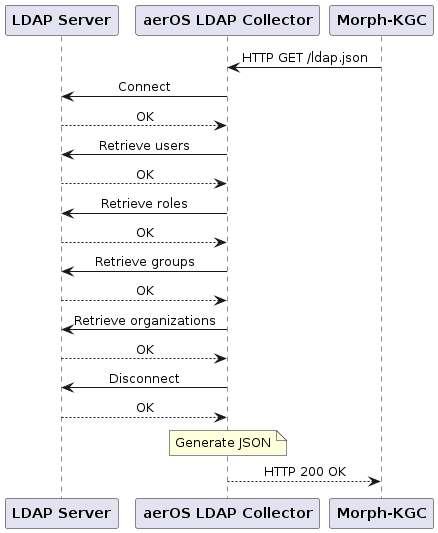
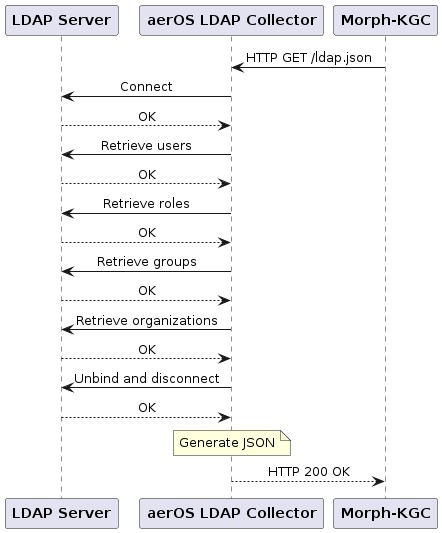
Upload Version 1.1.3

diff --git a/aeros_ldap_collector/main.py b/aeros_ldap_collector/main.py
@@ -1,5 +1,5 @@
 __name__ = "aerOS LDAP Collector"
-__version__ = "1.1.2"
+__version__ = "1.1.3"
 __author__ = "David Martínez García"
 __credits__ = ["GIROS DIT-UPM", "Luis Bellido Triana", "Daniel González Sánchez", "David Martínez García"]
 
@@ -7,24 +7,25 @@ __credits__ = ["GIROS DIT-UPM", "Luis Bellido Triana", "Daniel González Sánche
 
 import configparser
 from contextlib import asynccontextmanager
-from fastapi import FastAPI
+from fastapi import FastAPI, Request, status
 import json
-from kafka import KafkaProducer
 from ldap3 import Server, Connection, ALL, ALL_ATTRIBUTES
 import logging
 import time
+import os
 
 ## -- END IMPORT STATEMENTS -- ##
 
 ## -- BEGIN CONSTANTS DECLARATION -- ##
 
-# The configuration file is always expected to be located at this path:
-CONFIG_FILE_PATH = "/aeros-ldap-collector/files/config.ini"
+# The configuration file path is defined as an environment variable:
+# Default value is: /aeros-ldap-collector/conf/config.ini
+CONFIG_FILE_PATH = os.getenv("CONFIG_FILE_PATH", "/aeros-ldap-collector/conf/config.ini")
 
 ### CONFIGURATION SECTIONS AND DIRECTIVES ###
 
 REQUIRED_CONFIG_SECTIONS = [
-    "ldap.general", "ldap.connection", "output"
+    "ldap.general", "ldap.connection"
 ]
 
 LDAP_GENERAL_REQUIRED_CONF_DIRECTIVES = [
@@ -33,10 +34,6 @@ LDAP_GENERAL_REQUIRED_CONF_DIRECTIVES = [
 
 LDAP_CONNECTION_REQUIRED_CONF_DIRECTIVES = [
     "server_endpoint", "use_ssl", "user", "password", "max_retries", "timeout"
-]
-
-OUTPUT_KAFKA_REQUIRED_DIRECTIVES = [
-    "kafka_server", "kafka_topic"
 ]
 
 ### --- ###
@@ -98,16 +95,6 @@ def check_config(config: configparser.ConfigParser):
                             logger.error("Provided configuration directives: " + str(directives))
                             logger.error("Required configuration directives: " + str(LDAP_CONNECTION_REQUIRED_CONF_DIRECTIVES))
                             raise RuntimeError("Missing or invalid configuration directives for ldap.connection section")
-                    if config_section == "output":
-                        kafka_directives = []
-                        for directive in directives:
-                            if "kafka_" in directive:
-                                kafka_directives.append(directive)
-                        if (len(kafka_directives) != 0) and (kafka_directives != OUTPUT_KAFKA_REQUIRED_DIRECTIVES):
-                            logger.error("Missing or invalid configuration directives for Kafka in output section")
-                            logger.error("Provided directives: " + str(kafka_directives))
-                            logger.error("Required directives: " + str(OUTPUT_KAFKA_REQUIRED_DIRECTIVES))
-                            raise RuntimeError("Missing or invalid configuration directives for Kafka in output section")
 
     logger.info("Configuration file checked")
 
@@ -264,24 +251,6 @@ def generate_json(users, roles, groups, orgs, organization_dn) -> dict:
     
     return ldap_json
 
-def output_to_kafka(kafka_server: str, kafka_topic: str, ldap_json: dict) -> None:
-    """
-    Outputs the resulting JSON with the LDAP information to a Kafka topic, if the corresponding
-    configuration directives are set.
-    """
-    logger.info("Trying to write output to the specified Kafka topic...")
-    
-    try:
-        producer = KafkaProducer(bootstrap_servers=[kafka_server])
-        producer.send(kafka_topic, value=json.dumps(ldap_json, indent=4).encode("utf-8"))
-        producer.flush()
-        producer.close()
-    except Exception as e:
-        logger.exception("Error while trying to write output to the specified Kafka topic: %s" % e)
-        raise RuntimeError("Error while trying to write output to the specified Kafka topic: %s" % e)
-
-    logger.info("Output successfully written to Kafka")
-
 @asynccontextmanager
 async def lifespan(app: FastAPI):
     logger.info("Application started")
@@ -303,9 +272,9 @@ app = FastAPI(
     version=__version__
 )
 
-@app.get("/ldap.json")
-async def get_ldap_information():
-    logger.info("Received GET request to /ldap.json")
+@app.get(path="/ldap.json", status_code=status.HTTP_200_OK)
+async def get_ldap(request: Request) -> dict:
+    logger.info("Received HTTP GET request from " + request.client.host + ":" + str(request.client.port) + " to /ldap.json")
 
     # Retrieve values related with LDAP from configuration directives.
     organization_dn = config["ldap.general"]["organization_dn"]
@@ -326,26 +295,16 @@ async def get_ldap_information():
     # Retrieve LDAP information for users, roles, groups and organizations.
     users, roles, groups, orgs = retrieve_information(connection=connection, organization_dn=organization_dn)
 
-    # Close the connection with the LDAP server.
-    logger.info("Closing the connection with the LDAP server...")
+    # Unbind the connection with the LDAP server.
+    logger.info("Unbinding connection with the LDAP server...")
     connection.unbind()
-    logger.info("Connection successfully closed")
+    logger.info("Connection successfully unbinded")
 
     # Generate the JSON object with LDAP information.
     ldap_json = generate_json(users=users, roles=roles, groups=groups, orgs=orgs, organization_dn=organization_dn)
-
-    # If the directive "use_kafka" in the configuration file is set to True, the JSON object is written to
-    # a Kafka topic, given its name and the server to use.
-    if "kafka_server" in config["output"] and "kafka_topic" in config["output"]:
-        kafka_server = config["output"]["kafka_server"]
-        kafka_topic = config["output"]["kafka_topic"]
-        output_to_kafka(kafka_server=kafka_server,
-                        kafka_topic=kafka_topic,
-                        ldap_json=ldap_json)
 
     logger.info("Returning JSON with LDAP data...")
 
     return ldap_json
 
 ## -- END MAIN CODE -- ##
-

diff --git a/README.md b/README.md
@@ -1,11 +1,11 @@
 # aerOS LDAP Collector
 LDAP collector based on the `ldap3` Python library for the aerOS Project.
 
-**Current version:** 1.1.2 (April 24th, 2024).
+**Current version:** 1.1.3 (April 26th, 2024).
 
-It connects to an LDAP server, retrieves information of users, roles, groups and organizations and generates a JSON object which can be used later by Morph-KGC to generate RDF triples given the appropriate mappings file. An example of this output JSON file is available [here](files/example_ldap.json).
+It connects to an LDAP server, retrieves information of users, roles, groups and organizations and generates a JSON object which can be used later by Morph-KGC to generate RDF triples given the appropriate mappings file. An example of this output JSON file is available [here](examples/ldap.json).
 
-The YARRRML mappings file can also be found [here](files/mappings.yaml). The definition of these mappings is done given the aerOS Ontology definition, which diagram is included below:
+The YARRRML mappings file can also be found [here](examples/mappings.yaml). The definition of these mappings is done given the aerOS Ontology definition, which diagram is included below:
 
 <img src="docs/aerOS-continuum-ontology.png" width="1200">
 
@@ -26,7 +26,7 @@ $ sudo docker build -t aeros-project/ldap-collector:latest .
 
 A Helm Chart for running the collector as a Kubernetes application is in the works.
 
-The collector is configured using an [`INI` file](https://en.wikipedia.org/wiki/INI_file). This file must always be placed in the following directory of the container (when run; use a volume to mount the file): `/aeros-ldap-collector/files/config.ini`. An example file is available [here](files/config.ini), although the structure of the file is the following:
+The collector is configured using an [`INI` file](https://en.wikipedia.org/wiki/INI_file). This file must always be placed in the following directory of the container (when run; use a volume to mount the file): `/aeros-ldap-collector/config.ini`. An example file is available [here](conf/config.ini), although the structure of the file is the following:
 
 ```ini
 ; Configuration file for aerOS LDAP Collector.
@@ -64,16 +64,4 @@ max_retries = <value>
 ; (MANDATORY) timeout (Integer): defines the time (in seconds) to wait between retries while trying to establish
 ; a connection with the server.
 timeout = <value>
-
-; (MANDATORY) Additional directives for outputting the JSON object that contains the LDAP information:
-[output]
-
-; (OPTIONAL) kafka_server (String): defines the socket where the Kafka server is reachable.
-; FORMAT: <ip_or_fqdn>:<port>.
-; It is MANDATORY if you wish to use Kafka as the desired output option.
-kafka_server = <value>
-
-; (OPTIONAL) kafka_topic (String): defines the topic to use for writing the resulting JSON object.
-; It is MANDATORY if you wish to use Kafka as the desired output option.
-kafka_topic = <value>
 ```
